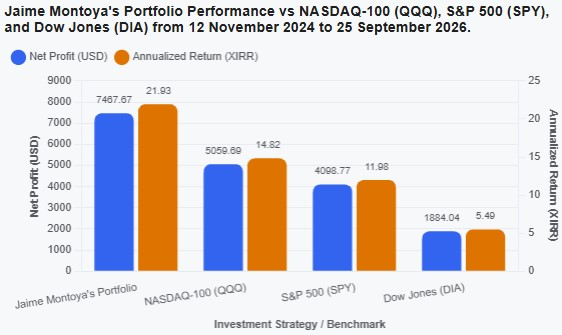
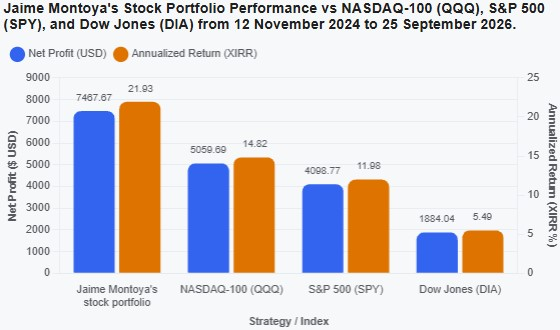
Update graph.

diff --git a/index.php b/index.php
@@ -14,7 +14,7 @@
     <li><a href=\"beat-the-market/STOCKS.html\" target=\"_blank\" rel=\"noopener noreferrer\">Stock profits from 12 Nov 2024 to 25 September 2026.</a>
     <li><a href=\"beat-the-market/MutualFunds.html\" target=\"_blank\" rel=\"noopener noreferrer\">Mutual funds profits from 12 Apr 2024 to 25 September 2026.</a>
   </ul>
-  <h2 style=\"cursor: default; user-select: none; -webkit-font-smoothing: antialiased; font-family: Arial; font-size: 16px; font-weight: bold;\">Jaime Montoya's real stock investments from 12 November 2024 to 25 September 2026 versus hypothetical investments of the same amounts on NASDAQ-100 (QQQ), S&P 500 (SPY), and Dow Jones (DIA)</h2>
+  <h2 style=\"cursor: default; user-select: none; -webkit-font-smoothing: antialiased; font-family: Arial; font-size: 16px; font-weight: bold;\">Jaime Montoya's stock investments from 12 November 2024 to 25 September 2026 versus hypothetical investments of the same amounts on NASDAQ-100 (QQQ), S&P 500 (SPY), and Dow Jones (DIA)</h2>
 <!-- Isolated Terminal Style Table Container Start -->
 <div id=\"jaime-portfolio-terminal-table-root\"></div>
 <script>
@@ -157,9 +157,10 @@
   <h2 style=\"cursor: default; user-select: none; -webkit-font-smoothing: antialiased; font-family: Arial; font-size: 16px; font-weight: bold;\">Jaime Montoya's real stock investments from 12 November 2024 to 25 September 2026 versus hypothetical investments of the same amounts on NASDAQ-100 (QQQ), S&P 500 (SPY), and Dow Jones (DIA)</h2>
   <img src=\"beat-the-market/jaimeMontoyasPortfolioBeatingTheMarket.jpg\" 
      alt=\"Jaime Montoya's Portfolio beating the market\" 
-     width=\"562\" 
-     height=\"335\" 
+     width=\"560\" 
+     height=\"330\" 
      style=\"max-width: 100%; height: auto;\">
+  // Credits: https://share.google/aimode/jFEROl5pyOQzVuLXv
   ";
   $index->Display();
 ?>
